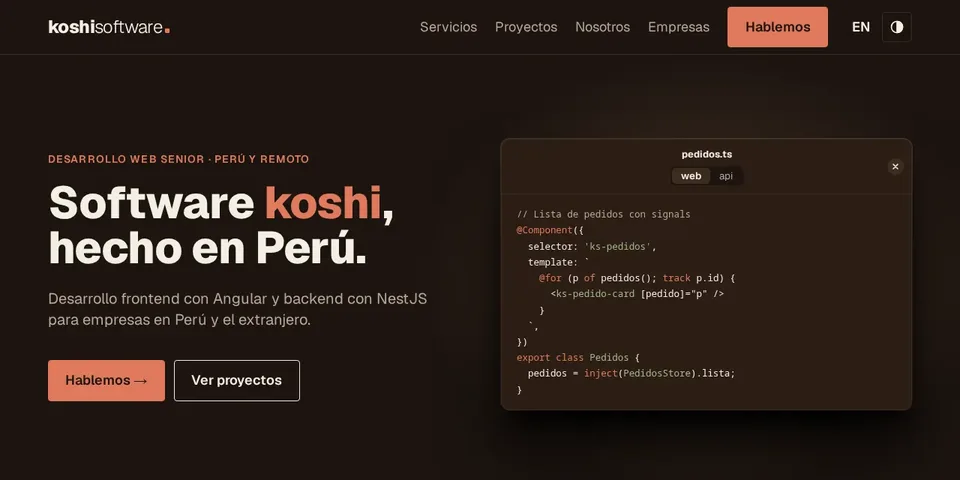
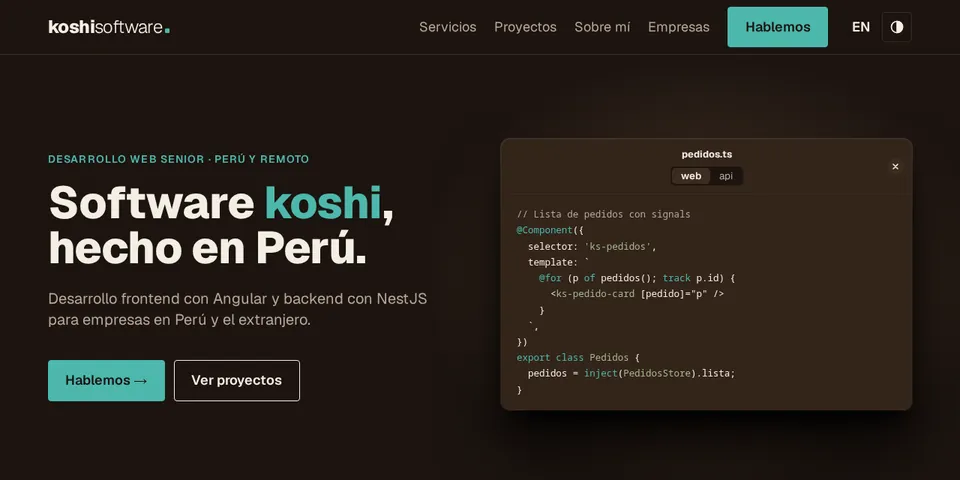
feat(web): switch the accent color from terracotta to teal
Updates the theme tokens, favicons, link preview image and the site screenshots.

diff --git a/apps/web/src/styles.scss b/apps/web/src/styles.scss
@@ -4,7 +4,7 @@
   --ks-band: #2a1e16;
   --ks-ink: #f4eee3;
   --ks-muted: #b8a897;
-  --ks-accent: #e07a5c;
+  --ks-accent: #4cb8ac;
   --ks-on-accent: #1c1410;
   --ks-line: #3d2c20;
   --ks-tint: #1f241a;
@@ -26,7 +26,7 @@
   --ks-band: #e2d6c1;
   --ks-ink: #2b1d14;
   --ks-muted: #6b5a4c;
-  --ks-accent: #9c3f28;
+  --ks-accent: #1a625b;
   --ks-on-accent: #f4eee3;
   --ks-line: #d4c6b0;
   --ks-tint: #dfe3cf;
